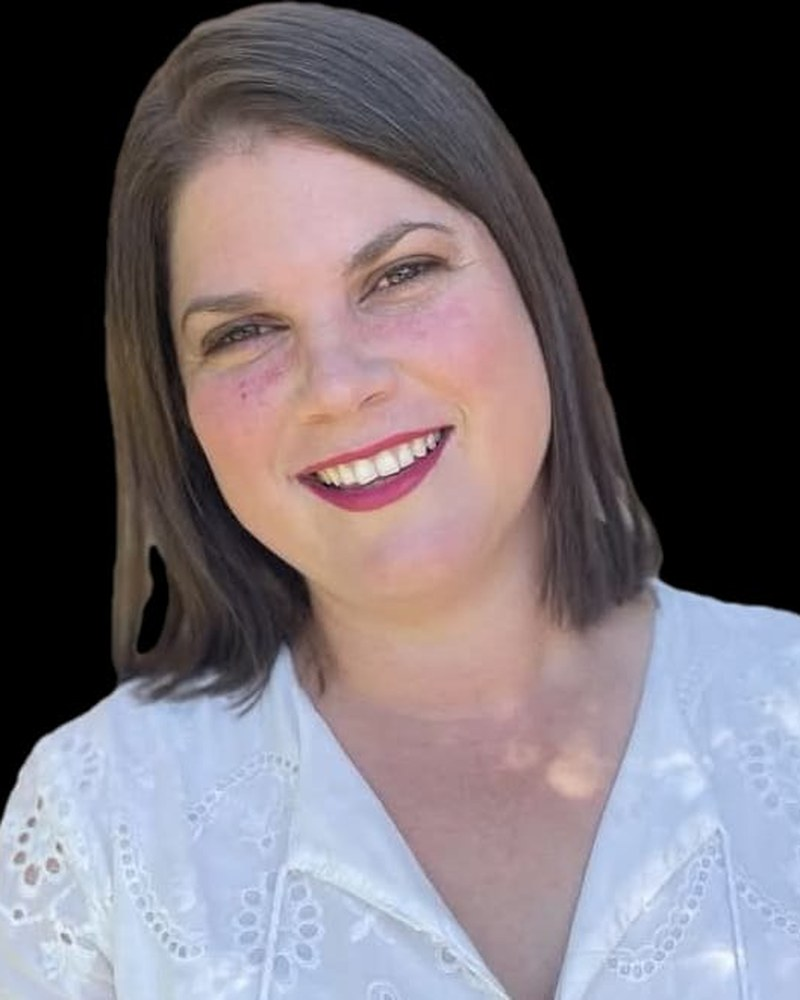
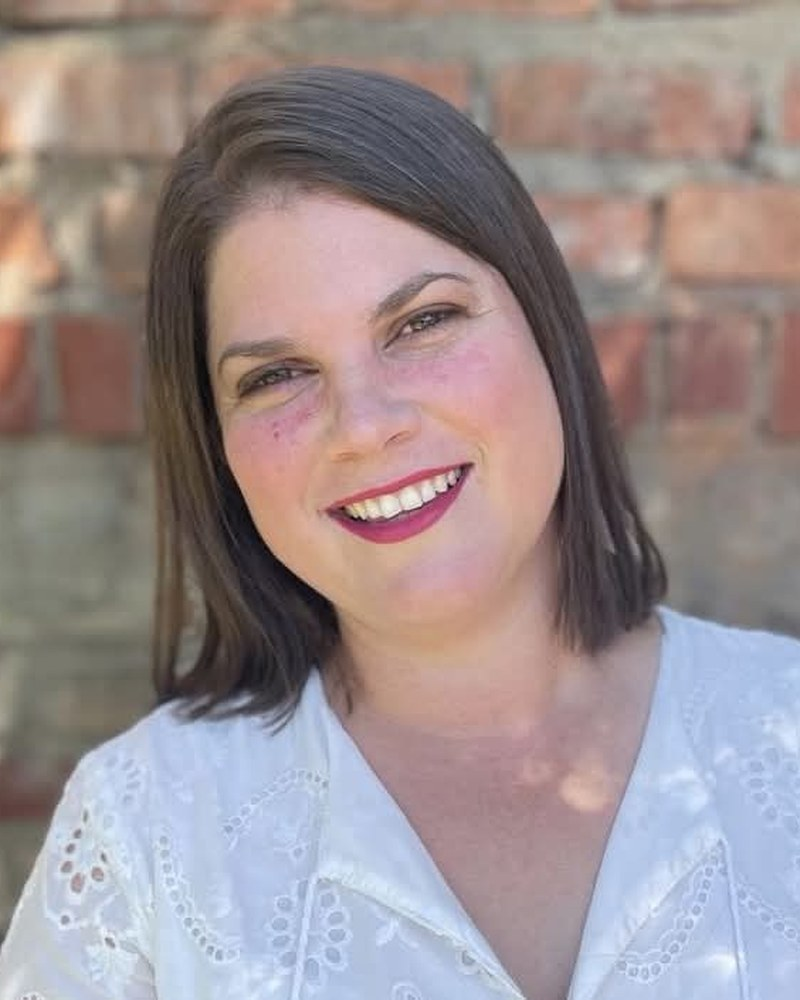
Swap Van Schalkwyk's portrait and move Lotriet to third
Van Schalkwyk's black cut-out is replaced by the brick-wall original,
which sits closer to the rest of the set. Source is 643x706, still short
for a 4:5 top crop, so it is cropped on the sides and upscaled 1.4x.

Lotriet moves from sixth to third, next to Kruger. At three columns the
grid now reads Strohmenger | Kruger | Lotriet, then Louw | Van Schalkwyk
| Cameron, then Vivier | Mostert | Pennazza.

Those two changes interact: the new portrait measures 150 for background
brightness where the cut-out measured 58, and Lotriet at 204 has moved
up into row one. All of row one plus one card in row two are now light
against the black section, where before the light cards were scattered.
Noted in the README rather than retouched.

diff --git a/index.html b/index.html
@@ -168,6 +168,23 @@
     </article>
 
     <article class="card reveal" tabindex="0" role="button" aria-haspopup="dialog"
+      data-name="Christelle Lotriet"
+      data-role="Physiotherapist"
+      data-practice=""
+      data-tel="0648039698"
+      data-icon="💪"
+      data-img="assets/team/christelle-lotriet.jpg"
+      data-bio="Physiotherapy for pain, injury and mobility — musculoskeletal and sports rehabilitation, post-operative recovery, posture and movement correction, and hands-on manual therapy.">
+      <div class="card__media"><span class="card__initials">CL</span></div>
+      <div class="card__body">
+        <span class="card__role">Physiotherapist</span>
+        <h3 class="card__name">Christelle Lotriet</h3>
+        <span class="card__practice">MediSmith</span>
+      </div>
+      <span class="card__plus" aria-hidden="true"></span>
+    </article>
+
+    <article class="card reveal" tabindex="0" role="button" aria-haspopup="dialog"
       data-name="Dr Emcy Louw"
       data-role="Specialist Family Physician"
       data-practice=""
@@ -213,23 +230,6 @@
       <div class="card__body">
         <span class="card__role">Occupational Therapist</span>
         <h3 class="card__name">Tania Cameron</h3>
-        <span class="card__practice">MediSmith</span>
-      </div>
-      <span class="card__plus" aria-hidden="true"></span>
-    </article>
-
-    <article class="card reveal" tabindex="0" role="button" aria-haspopup="dialog"
-      data-name="Christelle Lotriet"
-      data-role="Physiotherapist"
-      data-practice=""
-      data-tel="0648039698"
-      data-icon="💪"
-      data-img="assets/team/christelle-lotriet.jpg"
-      data-bio="Physiotherapy for pain, injury and mobility — musculoskeletal and sports rehabilitation, post-operative recovery, posture and movement correction, and hands-on manual therapy.">
-      <div class="card__media"><span class="card__initials">CL</span></div>
-      <div class="card__body">
-        <span class="card__role">Physiotherapist</span>
-        <h3 class="card__name">Christelle Lotriet</h3>
         <span class="card__practice">MediSmith</span>
       </div>
       <span class="card__plus" aria-hidden="true"></span>
@@ -289,8 +289,7 @@
       </div>
       <span class="card__plus" aria-hidden="true"></span>
     </article>
-
-  </div>
+</div>
 </section>
 
 <!-- ───────────────────────── DISCIPLINES ───────────────────────── -->

diff --git a/README.md b/README.md
@@ -190,14 +190,14 @@ the Open Graph block in `index.html` marks the spot.
 
 ## Outstanding
 
-- [ ] Three portraits sit on light studio backgrounds (Strohmenger 163,
-      Kruger 198, Lotriet 204 mean edge brightness) while six are dark
-      (2-58), so those three cards read noticeably brighter in the grid.
-      Either accept the mix, key the light three onto a dark backdrop, or
-      reshoot to match.
-- [ ] René V. Schalkwyk's portrait came in at 612x660 against ~1000x1500
-      for the rest, so it is upscaled 1.5x and framed tighter than the
-      others. A larger original would match better.
+- [ ] Four portraits sit on light backgrounds (Strohmenger 163, Kruger 198,
+      Lotriet 204, Van Schalkwyk 150 mean edge brightness) against five dark
+      ones (2-15). With Lotriet moved to third, the whole of row one plus one
+      card in row two now read bright against a black section. Either accept
+      the mix, key the light four onto a dark backdrop, or reshoot to match.
+- [ ] Van Schalkwyk's source is 643x706 against ~1000x1500 for the rest, so
+      hers is upscaled 1.4x and framed tighter. A larger original would match
+      better.
 - [ ] Transparent logo PNG at `assets/logo.png` — it replaces the fallback
       wordmark in the hero automatically. The supplied board is a wall mockup on
       cream, so it can't be used directly.
